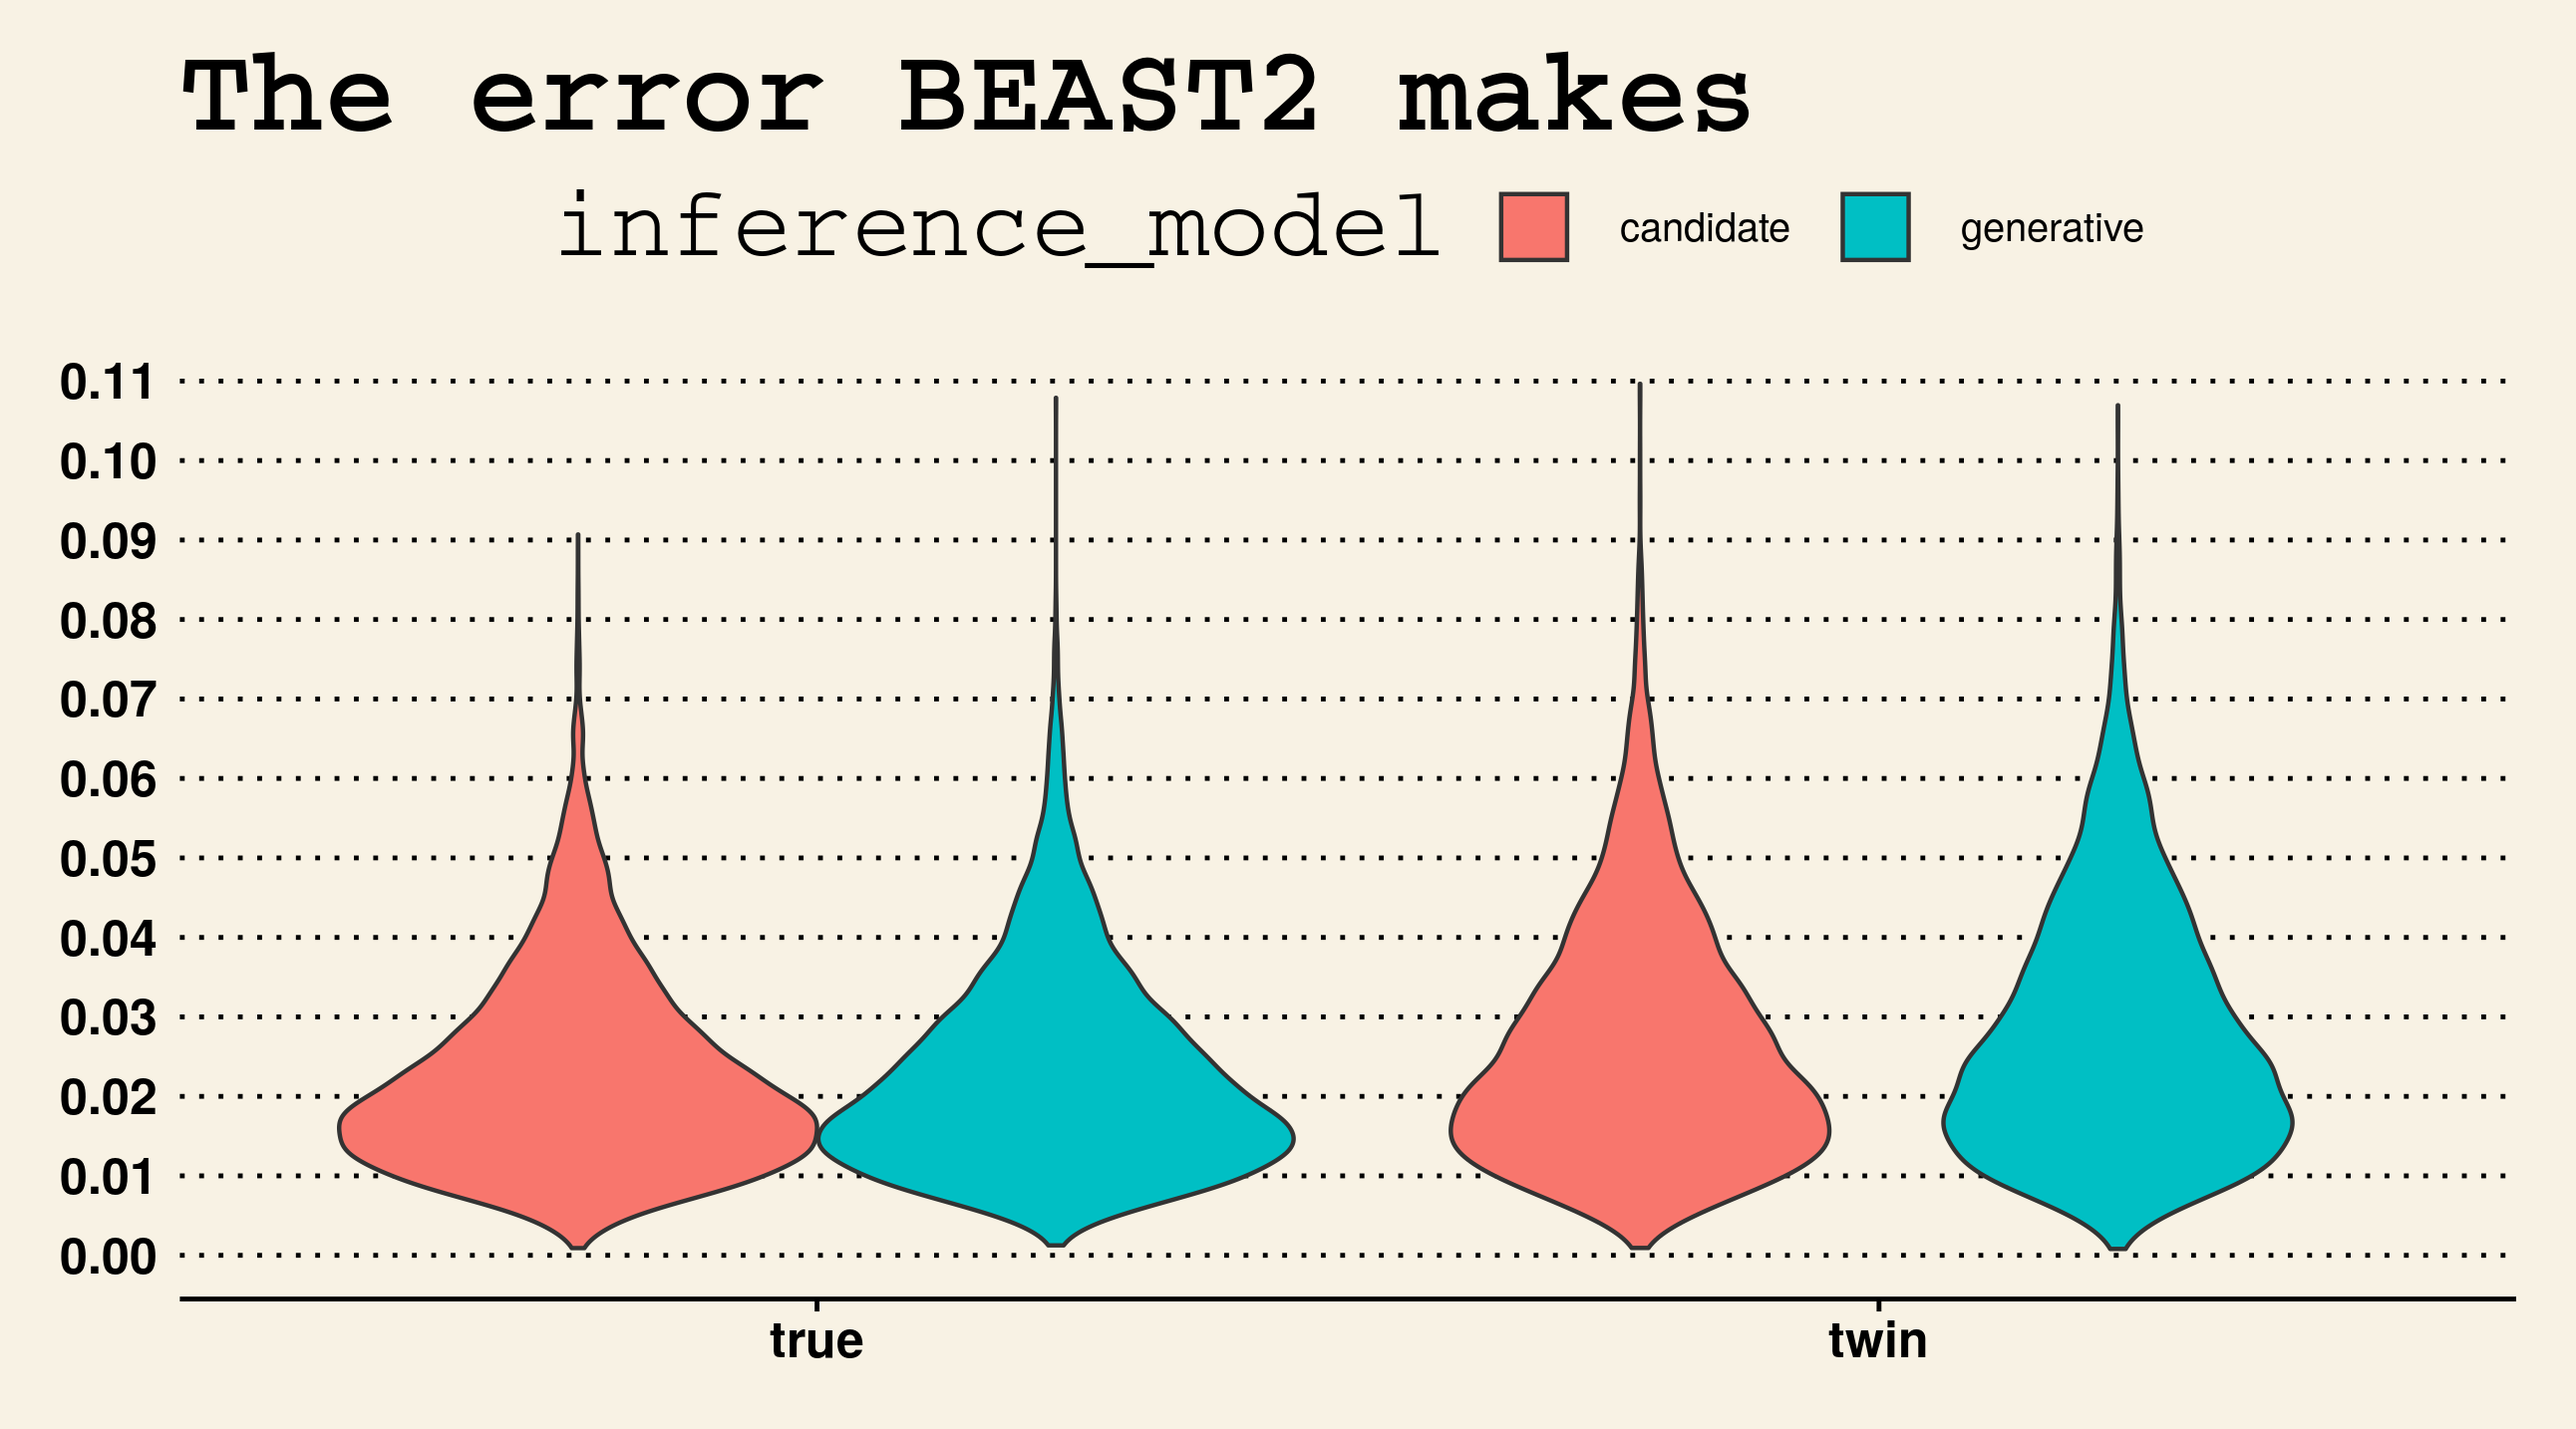
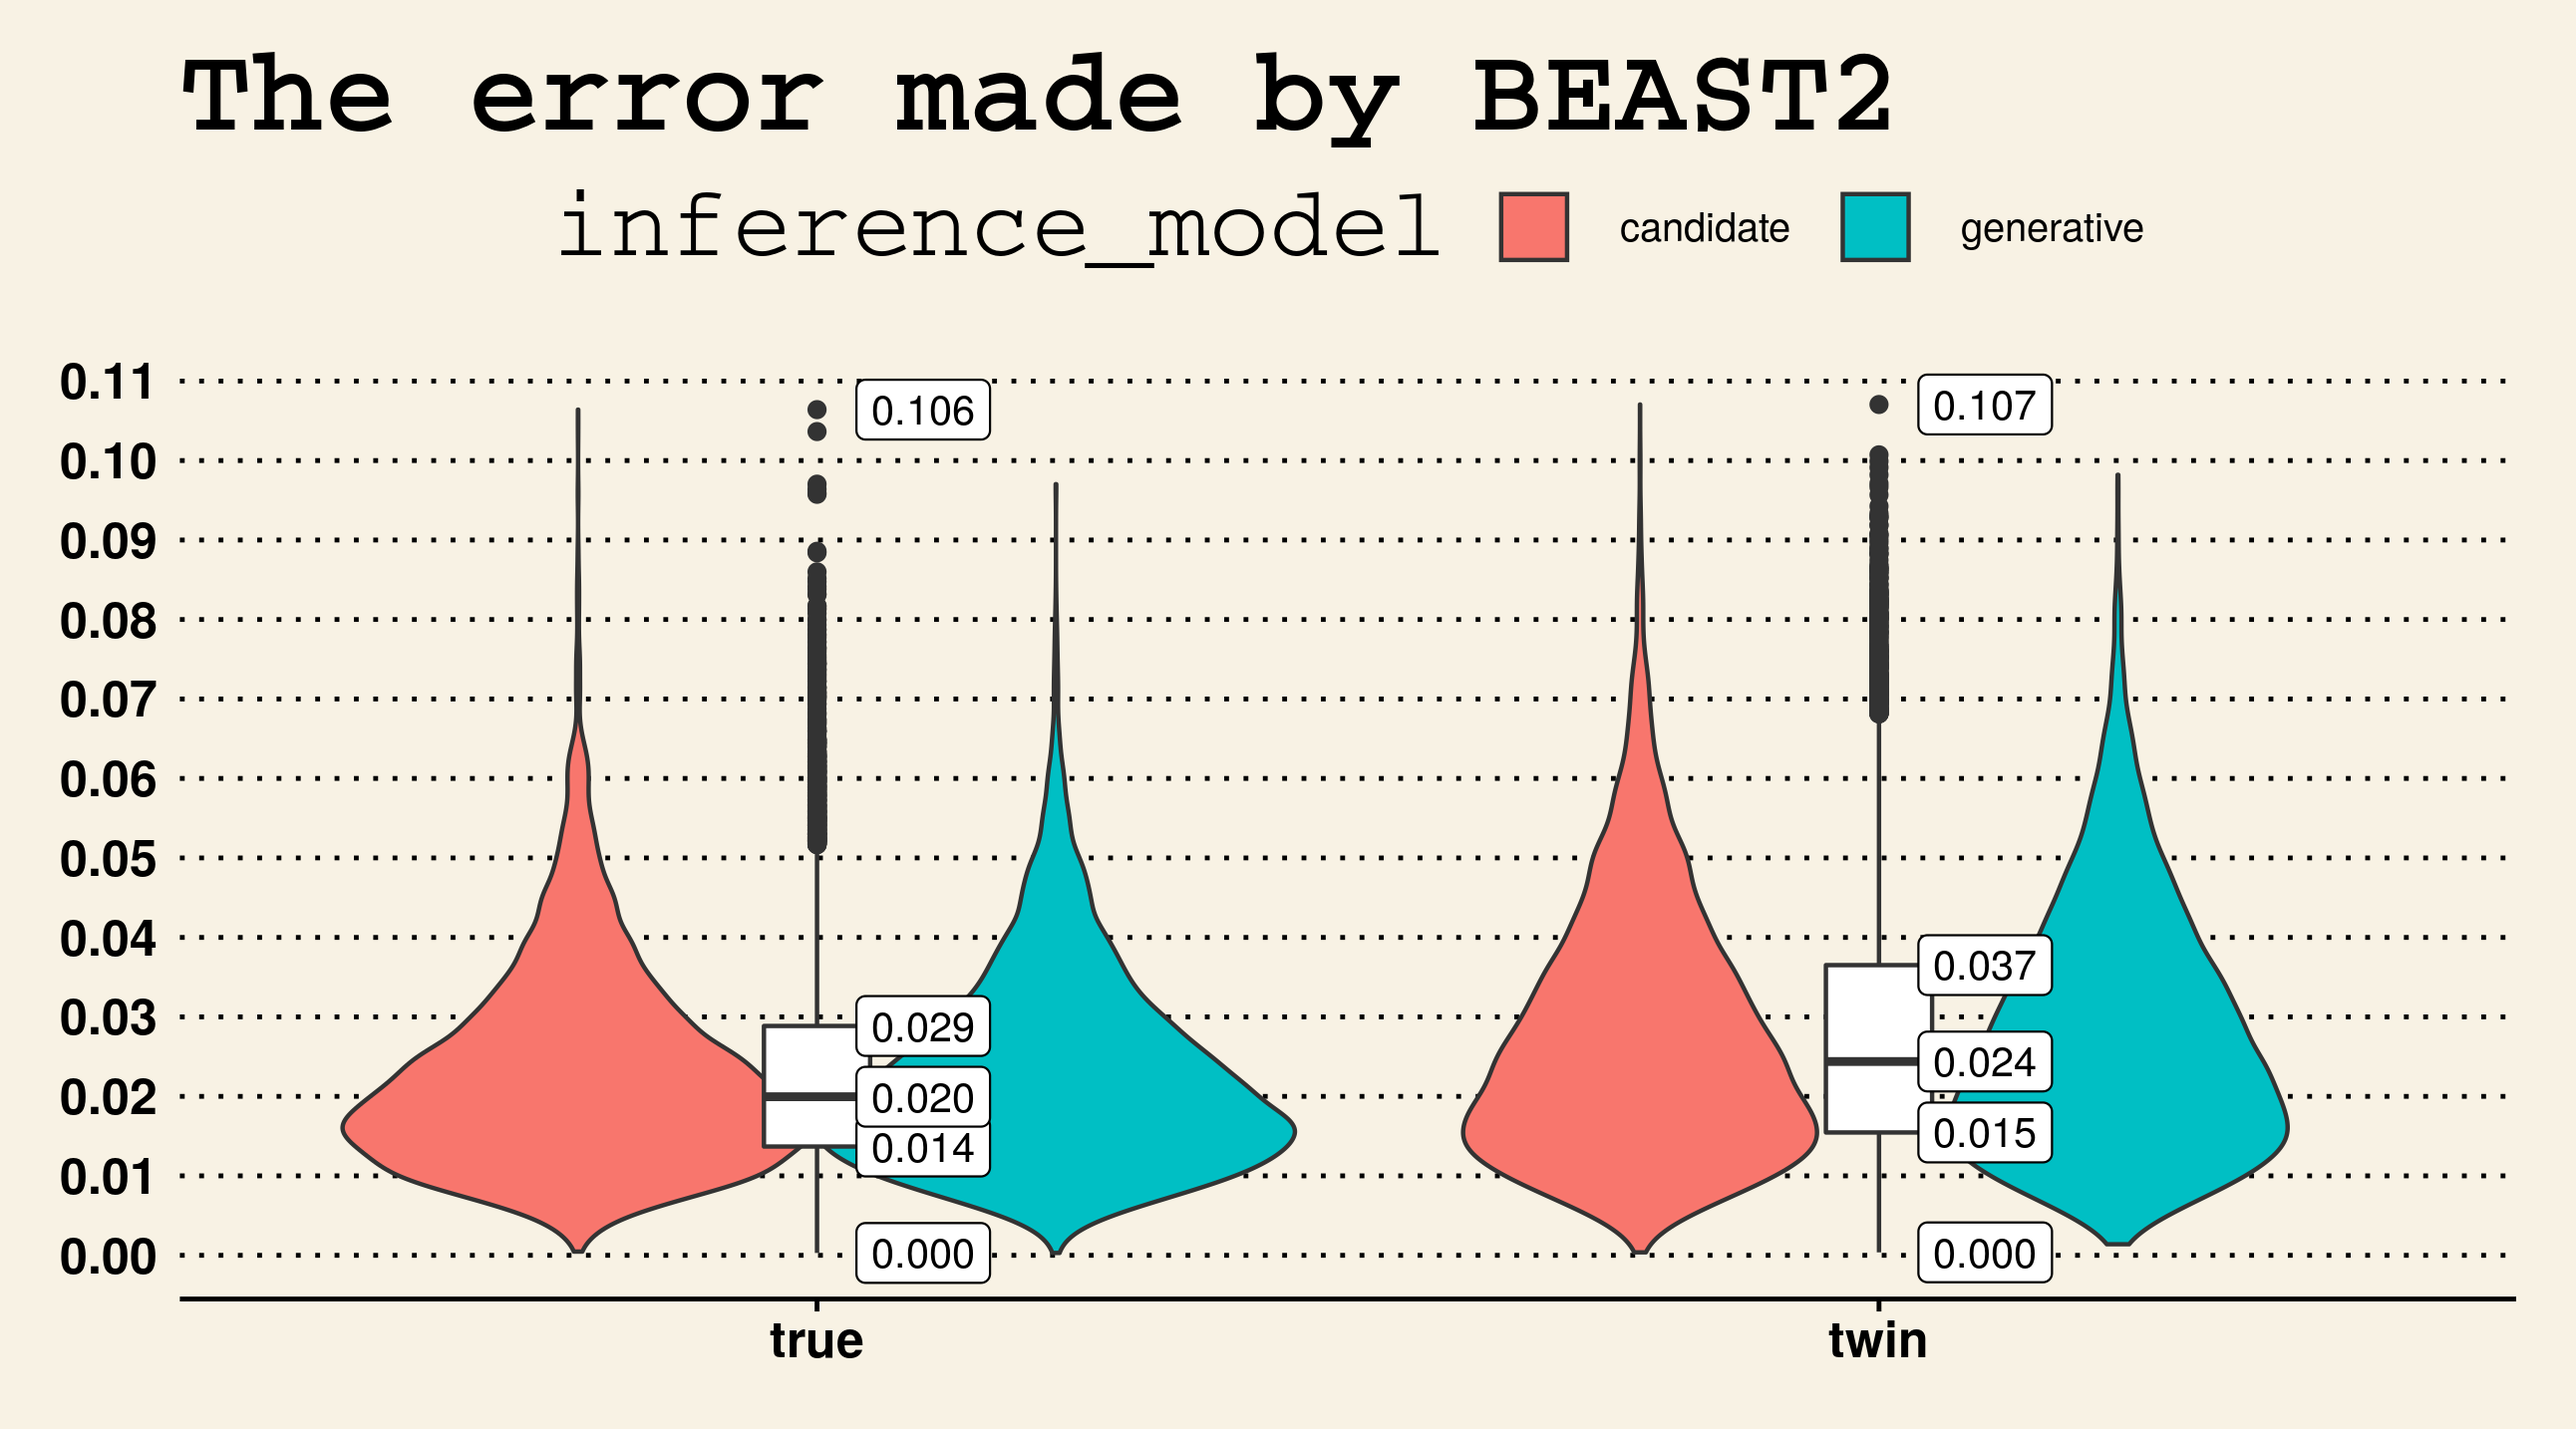
Create all ESSes and evidences and figures

diff --git a/article.tex b/article.tex
@@ -833,17 +833,18 @@ The resulting figure is shown in figure \ref{fig:example_4}.
 \multirow{2}{*}{\textbf{Example}} & \multicolumn{2}{c|}{\textbf{True tree}} 
                                   & \multicolumn{2}{c|}{\textbf{Twin tree}} \\
 \cline{2-5}
-                                  & \textbf{HPD} & \textbf{range} & \textbf{HPD} & \textbf{range} \\
+                                  & \textbf{median} & \textbf{range} & \textbf{median} & \textbf{range} \\
 \hline
-1  & $0.20$  & $0.0 - 0.27$  &         &               \\
+1  & $0.02$  & $0.0 - 0.27$  &         &               \\
 2  & $0.02$  & $0.0 - 0.08$  &         &               \\
 3  & $0.018$ & $0.0 - 0.1$   & $0.019$ & $0.0 - 0.11$  \\
 4C & $0.22$  & $0.0 - 0.088$ & $0.009$ & $0.0 - 0.056$ \\
 4G & $0.020$ & $0.0 - 0.075$ & $0.013$ & $0.0 - 0.052$ \\
 \hline
 \end{tabular}
-\caption{Results of the examples. For the true and twin tree,
-  the highest posterior density (HPC) and range of the errors 
+\caption{Results of the examples. 
+  For the true and twin tree,
+  the median and range of the errors 
   is shown. Experiment 4 is split in two rows
   by either the candidate ('C') or generative model ('G') 
 }
@@ -851,13 +852,12 @@ The resulting figure is shown in figure \ref{fig:example_4}.
 \end{table}
 %%%%%%%%%%%%%%%%%%%%%%%%%%%%%%%%%%%%%%%%%%%%%%%%%%%%%%%%%%%%%%%%%%%%%%%%%%%%%%%%%%%%%%
 
+\richel{check numbers}
+
 Here we discuss how to interpret the results of \verb;pirouette;.
 Figure \ref{fig:example_1} shows that the generative model 
-gives an error distribution with a highest posterior density (HPD) 
-\giovanni{probably "median" is a better word}
-\richel{HPC is a valid Bayesian term I learned from the BEAST book}
-at 0.015
-The range of errors goes from 0.0 to 0.097 
+gives an error distribution with a median of \richel{?}
+The range of errors goes from \richel{?} to \richel{?}.
 As we know the generative model, 
 this error distribution is the minimum noise that BEAST2 produces 
 for that generative model.
@@ -867,7 +867,8 @@ the recommended value of 200 \cite{drummond2015bayesian},
 as shown in table \ref{tab:esses_example_1}.
 
 Figure \ref{fig:example_2} shows that the best candidate model gives an error distribution 
-with an HPD at 0.02. The range of errors goes from 0.0 to 0.08. 
+with a median of \richel{?}. 
+The range of errors goes from \richel{?} to \richel{?}. 
 The inference model with the highest evidence follows a JC site model, 
 RLN clock model and BD tree prior, with a weight of $0.675$. 
 This is (unexpectedly) better than the generative
@@ -880,10 +881,9 @@ Also here, the ESSes are well above 200,
 as shown in table \ref{tab:esses_example_2}.
 
 Figure \ref{fig:example_3} shows that the hand-picked model 
-gives an error distribution with an HPD at 0.018, 
-with a range from 0.0 to 0.1.
-The twin tree has an error distribution with a highest density at 0.019,
-with a range from 0.0 to 0.11, which is an indication of the
+gives an error distribution with a median of \richel{?}, 
+The twin tree has an error distribution with a median of \richel{?},
+with a range from 0.0 to \richel{?}, which is an indication of the
 error made by BEAST on that tree prior.
 As there is little difference between the true and twin tree,
 the (unknown) diversification model has little impact on the error
@@ -891,6 +891,26 @@ BEAST2 makes, hinting that the constant-rate birth-death model is
 sufficiently good enough to explain the true phylogeny. 
 The diversification model apparently has minor impact and need not to be
 added to BEAST2.
+We can draw this conclusion with confidence, as the ESSes are well above 200, 
+as shown in table \ref{tab:esses_example_3}.
+
+Figure \ref{fig:example_4} shows that \richel{?}
+and 
+gives an error distribution with a median of \richel{?}, 
+The twin tree has an error distribution with a median of \richel{?},
+with a range from 0.0 to \richel{?}, which is an indication of the
+error made by BEAST on that tree prior.
+The inference model with the highest evidence follows a JC site model, 
+RLN clock model and BD tree prior, with a weight of ?. 
+The complete list of all evidences is shown in table \ref{tab:evidences_example_4}.
+As there is little difference between the true and twin tree,
+the (unknown) diversification model has little impact on the error
+BEAST2 makes, hinting that the constant-rate birth-death model is
+sufficiently good enough to explain the true phylogeny. 
+The diversification model apparently has minor impact and need not to be
+added to BEAST2.
+We can draw this conclusion with confidence, as the ESSes are well above 200, 
+as shown in table \ref{tab:esses_example_4}.
 
 %%%%%%%%%%%%%%%%%%%%%%%%%%%%%%%%%%%%%%%%%%%%%%%%%%%%%%%%%%%%%%%%%%%%%%%%%%%%%%%%%%%%%%
 \section{pirouette resources}
@@ -977,6 +997,11 @@ RSE contributed to revisions.
 \section{Results in detail}
 %%%%%%%%%%%%%%%%%%%%%%%%%%%%%%%%%%%%%%%%%%%%%%%%%%%%%%%%%%%%%%%%%%%%%%%%%%%%%%%%%%%%%%
 
+\richel{
+  I'd enjoy to put all intermediate output here: alignments, twin trees,
+  posteriors, nLTTs, errors. Now we only show the ones relevant in the text
+}
+
 \input{example_1_esses.latex}
 % has label tab:esses_example_1
 
@@ -985,5 +1010,14 @@ RSE contributed to revisions.
 
 \input{example_2_evidences.latex}
 % has label tab:evidences_example_2
+
+\input{example_3_esses.latex}
+% has label tab:esses_example_3
+
+\input{example_4_esses.latex}
+% has label tab:esses_example_4
+
+\input{example_4_evidences.latex}
+% has label tab:evidences_example_4
 
 \end{document}
